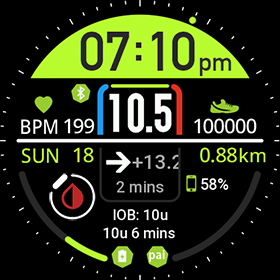
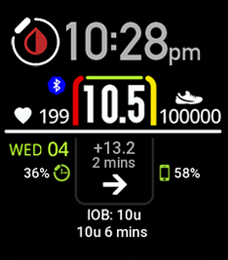
Display AAPS ExternalStatusLine and time

diff --git a/watchface/gts4mini/index.js b/watchface/gts4mini/index.js
@@ -20,7 +20,7 @@ import {
     DIGITAL_TIME_SEPARATOR,
     IMG_LOADING_PROGRESS,
     IMG_STATUS_BT_DISCONNECTED,
-    IOB_TEXT,
+    // IOB_TEXT,
     // NORMAL_DIST_TEXT_IMG,
     NORMAL_HEART_RATE_TEXT_IMG,
     NORMAL_STEPS_TEXT_IMG,
@@ -29,7 +29,10 @@ import {
     WATCH_BATTERY_TEXT,
     TIME_AM_PM,
     TREATMENT_TEXT,
-    WEEK_DAYS
+    WEEK_DAYS,
+    //TREATMENT_TIME_TEXT,
+    AAPS_TEXT,
+    AAPS_TIME_TEXT
 } from "./styles";
 import {BG_FILL_RECT, BG_IMG} from "../../utils/config/styles_global";
 import {PROGRESS_ANGLE_INC, PROGRESS_UPDATE_INTERVAL_MS, TEST_DATA} from "../../utils/config/constants";
@@ -38,7 +41,7 @@ let imgBg, digitalClockHour, digitalClockMinutes, timeAM_PM, digitalClockSeparat
     normalHeartRateTextImg, normalStepsTextImg, /* normalDistTextImg, */ weekImg, dateDayImg, /* batteryCircleArc, paiCircleArc, */
     screenType;
 let bgValTextWidget, bgValTextImgWidget, bgValTimeTextWidget, bgDeltaTextWidget, bgTrendImageWidget, bgStaleLine,
-    phoneBattery, watchBattery, iob, treatment, bgStatusLow, bgStatusOk, bgStatusHight, progress;
+    phoneBattery, watchBattery, /* iob, treatment, */ bgStatusLow, bgStatusOk, bgStatusHight, progress, aapsText, aapsTimeText;
 
 let globalNS, progressTimer, progressAngle;
 
@@ -146,12 +149,16 @@ WatchFace({
         bgStaleLine = hmUI.createWidget(hmUI.widget.IMG, BG_STALE_IMG);
         phoneBattery = hmUI.createWidget(hmUI.widget.TEXT, PHONE_BATTERY_TEXT);
         watchBattery = hmUI.createWidget(hmUI.widget.TEXT, WATCH_BATTERY_TEXT);
-        iob = hmUI.createWidget(hmUI.widget.TEXT, IOB_TEXT);
-        treatment = hmUI.createWidget(hmUI.widget.TEXT, TREATMENT_TEXT);
+        // iob = hmUI.createWidget(hmUI.widget.TEXT, IOB_TEXT);
+        // treatment = hmUI.createWidget(hmUI.widget.TEXT, TREATMENT_TEXT);
         bgStatusLow = hmUI.createWidget(hmUI.widget.IMG, BG_STATUS_LOW_IMG);
         bgStatusOk = hmUI.createWidget(hmUI.widget.IMG, BG_STATUS_OK_IMG);
         bgStatusHight = hmUI.createWidget(hmUI.widget.IMG, BG_STATUS_HIGHT_IMG);
         progress = hmUI.createWidget(hmUI.widget.IMG, IMG_LOADING_PROGRESS);
+        // From modified xDrip ExternalStatusService.getLastStatusLine()
+        aapsText = hmUI.createWidget(hmUI.widget.TEXT, AAPS_TEXT);
+        // From modified xDrip ExternalStatusService.getLastStatusLineTime()
+        aapsTimeText = hmUI.createWidget(hmUI.widget.TEXT, AAPS_TIME_TEXT);
 
         function scale_call() {
             if (screenType !== hmSetting.screen_type.AOD) {
@@ -210,9 +217,21 @@ WatchFace({
             text: watchdripData.getStatus().getBatVal()
         });
 
-        let treatmentObj = watchdripData.getTreatment();
+        /* let treatmentObj = watchdripData.getTreatment();
         iob.setProperty(hmUI.prop.MORE, {
             text: treatmentObj.getPredictIOB()
+        }); */
+        // Fill data from modified xDrip ExternalStatusService.getLastStatusLine()
+        let treatmentObj = watchdripData.getTreatment();
+        let aapsString = "";
+        let insText = "IOB: " + treatmentObj.insulin + "U";
+        insText = insText.replace(".0U", "U");
+        aapsString = aapsString + insText + " | ";        
+        let carbText = "COB: " + treatmentObj.carbs + "g";
+        carbText = carbText.replace(".0g", "g");
+        aapsString = aapsString + carbText;
+        aapsText.setProperty(hmUI.prop.MORE, {
+            text: aapsString
         });
 
         if (TEST_DATA){
@@ -235,7 +254,7 @@ WatchFace({
 
         bgStaleLine.setProperty(hmUI.prop.VISIBLE, watchdripData.isBgStale());
 
-        let treatmentObj = watchdripData.getTreatment();
+        /* let treatmentObj = watchdripData.getTreatment();
 
         let treatmentsText = treatmentObj.getTreatments();
         if (treatmentsText !== "") {
@@ -244,6 +263,12 @@ WatchFace({
 
         treatment.setProperty(hmUI.prop.MORE, {
             text: treatmentsText
+        }); */
+
+        // Fill data from modified xDrip ExternalStatusService.getLastStatusLine()
+        let treatmentObj = watchdripData.getTreatment();
+        aapsTimeText.setProperty(hmUI.prop.MORE, {
+            text: watchdripData.getTimeAgo(treatmentObj.time)
         });
     },
 

diff --git a/watchface/gts4mini/styles.js b/watchface/gts4mini/styles.js
@@ -219,7 +219,7 @@ export const BG_STALE_IMG = {
     visible: false,
 };
 
-export const IOB_TEXT = {
+/* export const IOB_TEXT = {
     x: px(88),
     y: px(302),
     w: px(243),
@@ -238,6 +238,32 @@ export const TREATMENT_TEXT = {
     h: px(32),
     color: Colors.white,
     text_size: px(22),
+    align_h: hmUI.align.CENTER_H,
+    align_v: hmUI.align.TOP,
+    text_style: hmUI.text_style.NONE,
+}; */
+
+// Xdrip modified to put ExternalStatusService.getLastStatusLine()
+export const AAPS_TEXT = {
+    x: px(18),
+    y: px(316),
+    w: px(300),
+    h: px(30),
+    color: Colors.white,
+    text_size: px(23),
+    align_h: hmUI.align.CENTER_H,
+    align_v: hmUI.align.CENTER_V,
+    text_style: hmUI.text_style.NONE,
+};
+
+// Xdrip modified to put ExternalStatusService.getLastStatusLineTime()
+export const AAPS_TIME_TEXT = {
+    x: px(18),
+    y: px(348),
+    w: px(300),
+    h: px(32),
+    color: Colors.white,
+    text_size: px(23),
     align_h: hmUI.align.CENTER_H,
     align_v: hmUI.align.TOP,
     text_style: hmUI.text_style.NONE,
